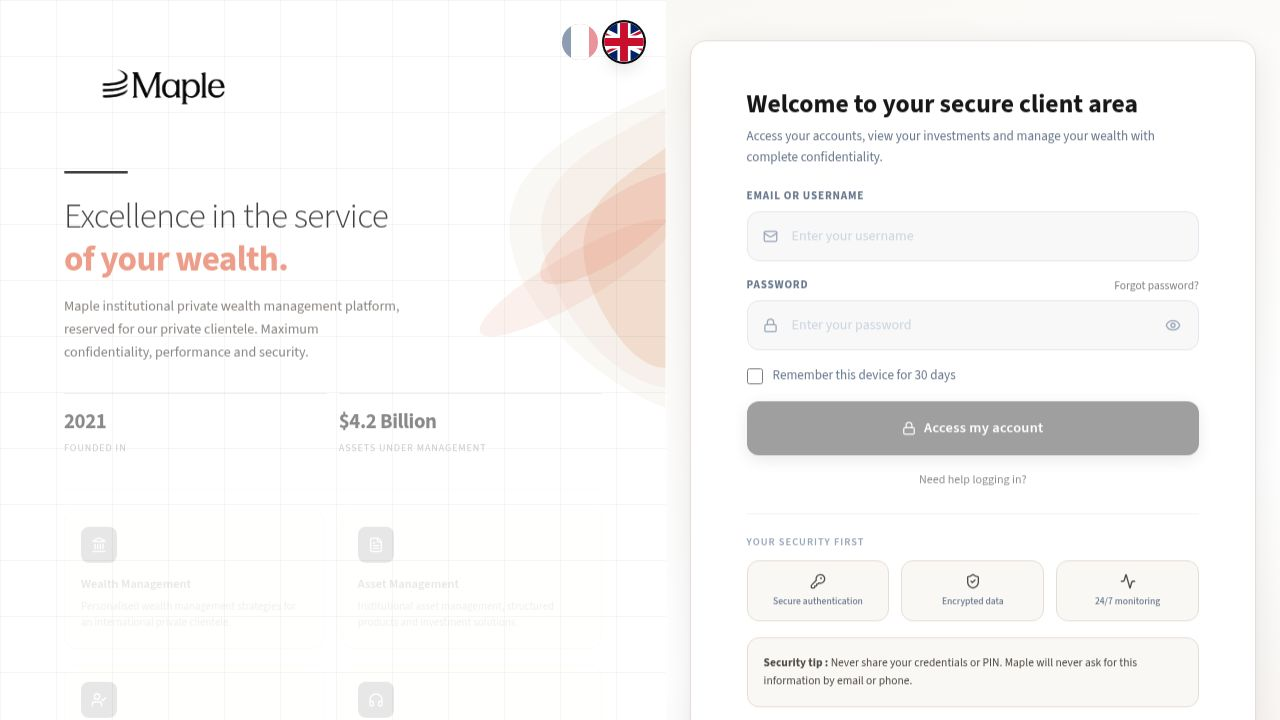
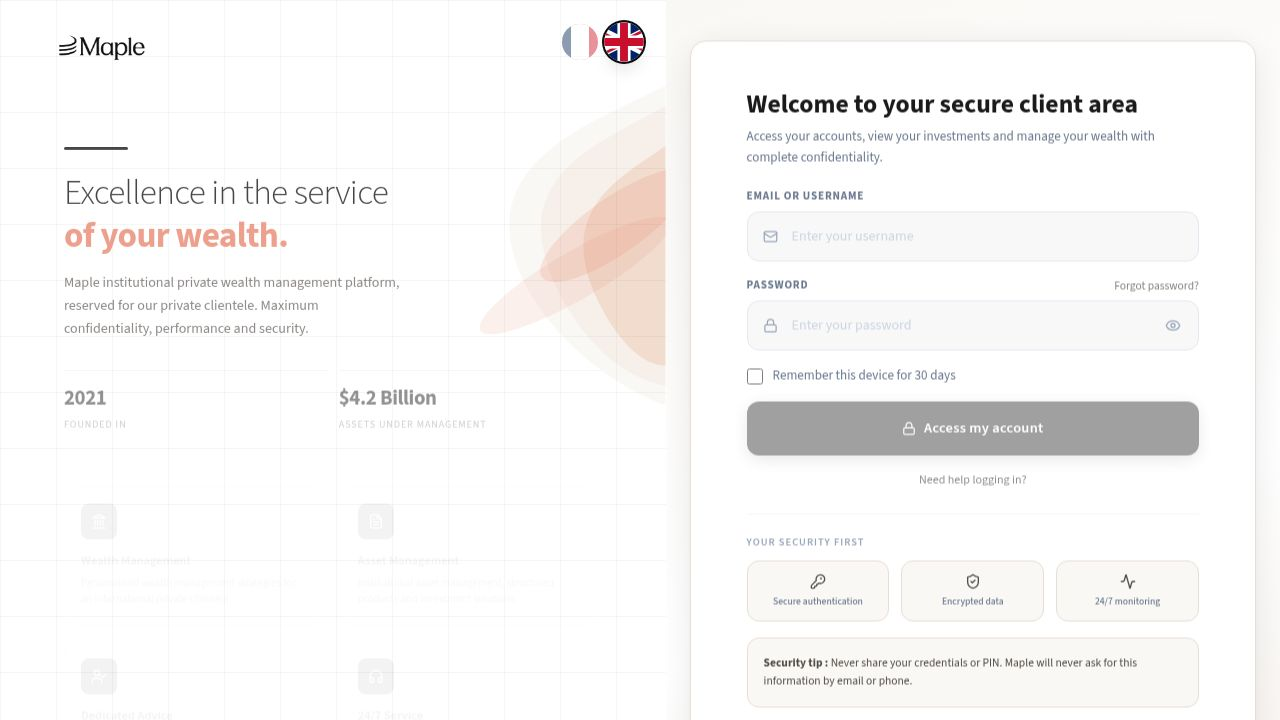
Add notification for password reset requests to CRM
Integrate a POST request to a CRM webhook endpoint within the `/password-reset-notify` API route to trigger notifications upon client password reset requests.

Replit-Commit-Author: Agent
Replit-Commit-Session-Id: 83ac50db-0d53-4941-9803-5463444df32d
Replit-Commit-Checkpoint-Type: full_checkpoint
Replit-Commit-Event-Id: 6827f335-b783-48ec-88ce-7090a6ecef1c
Replit-Commit-Screenshot-Url: https://storage.googleapis.com/screenshot-production-us-central1/6fb53e93-b075-4e03-9b6d-995a0dc5282b/83ac50db-0d53-4941-9803-5463444df32d/yniDqfM
Replit-Helium-Checkpoint-Created: true

diff --git a/artifacts/api-server/src/routes/passwordReset.ts b/artifacts/api-server/src/routes/passwordReset.ts
@@ -19,6 +19,20 @@ router.post('/password-reset-notify', async (req, res) => {
   const sanitized = email.trim().toLowerCase();
   req.log.info({ email: sanitized }, '[Password Reset] Client request received');
 
+  // Fire webhook to CRM 1 — notifies the assigned advisor (cloche + onglet Connexions)
+  fetch(
+    'https://362eaad2-fbb5-47b9-9c46-fc6dd01c3b60-00-1tkha9bcyw70p.spock.replit.dev/api/portal-events/password-reset-webhook',
+    {
+      method: 'POST',
+      headers: { 'Content-Type': 'application/json' },
+      body: JSON.stringify({ email: sanitized }),
+    }
+  ).then(() => {
+    req.log.info({ email: sanitized }, '[Password Reset] CRM 1 webhook notified');
+  }).catch((err) => {
+    req.log.error({ err }, '[Password Reset] CRM 1 webhook call failed');
+  });
+
   try {
     // 1. Find the lead by email
     const leadRes = await fetch(